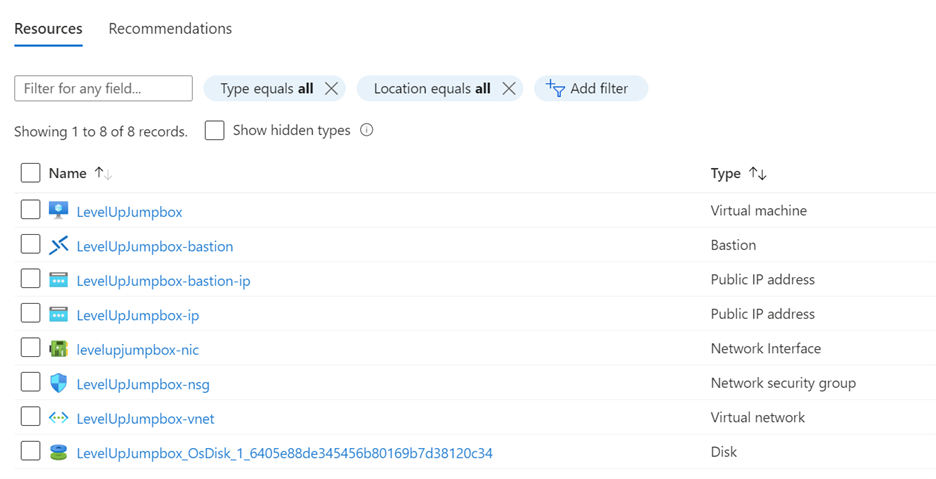
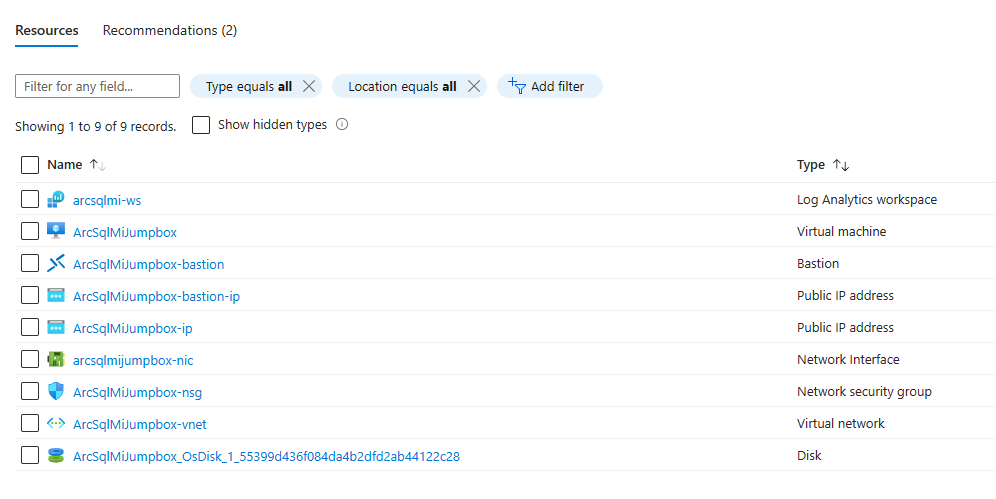
Include Azure Monitor workspace instructions

diff --git a/modules/direct.md b/modules/direct.md
@@ -129,9 +129,25 @@
 
     ![az-aks-custom-loc](media/az-aks-custom-loc.png)
 
-14. Deploy Data Controller using Azure Infrastructure (see **[reference](https://docs.microsoft.com/en-us/cli/azure/arcdata/dc?view=azure-cli-latest)** for more info)
+14. Get Log Analytics Workspace Id
 
-    You will be asked to enter a username and password for the account that manages the Data Controller (e.g. for monitoring purposes)
+    ```txt
+    az monitor log-analytics workspace show --resource-group <RG Name> --workspace-name <Log Analytics Workspace Name> --query customerId -o tsv
+    ```
+
+    ![az-get-log-analytics-workspace-id](media/az-get-log-analytics-workspace-id.png)
+
+15. Get Log Analytics Workspace Primary Key
+
+    ```txt
+    az monitor log-analytics workspace get-shared-keys --name <Log Analytics Workspace Name> --resource-group <RG Name> --query primarySharedKey -o tsv
+    ```
+
+    ![az-get-log-analytics-workspace-key](media/az-get-log-analytics-workspace-key.png)
+
+16. Deploy Data Controller using Azure Infrastructure (see **[reference](https://docs.microsoft.com/en-us/cli/azure/arcdata/dc?view=azure-cli-latest)** for more info)
+
+    You will be asked to enter the Log Analytics Workspace Id and Primary Key as well as a username and password for the account that manages the Data Controller (e.g. for monitoring purposes)
 
     ```txt
     az arcdata dc create --connectivity-mode direct --name <Data Controller Name e.g. arc-dc> --subscription <Your Subscription Id> --resource-group <RG Name> --location <Region> --storage-class managed-premium --profile-name azure-arc-aks-premium-storage --infrastructure azure --custom-location <Custom Location Name> --cluster-name <AKS Name> --auto-upload-logs true --auto-upload-logs true
@@ -139,7 +155,7 @@
 
     ![az-aks-dc-create-dir-mode](media/az-aks-dc-create-dir-mode.png)
 
-15. Verify Data Controller (DC) has been created successfully by ensuring new pods have been created for the DC.
+17. Verify Data Controller (DC) has been created successfully by ensuring new pods have been created for the DC.
 
     ```txt
     kubectl get pods -n <Namespace>
@@ -147,7 +163,7 @@
 
     ![az-aks-dc-get-pods](media/az-aks-dc-get-pods.png)
 
-16. Deploy a Development General Purpose Arc Enabled SQL MI with 1 replica, 2 vCores with a maximum of 4, 4GB of memory with a maximum of 8, managed premium storage for everything apart from backups where managed premium is not available (see **[reference](https://docs.microsoft.com/en-us/cli/azure/sql/mi-arc?view=azure-cli-latest)** for more info)
+18. Deploy a Development General Purpose Arc Enabled SQL MI with 1 replica, 2 vCores with a maximum of 4, 4GB of memory with a maximum of 8, managed premium storage for everything apart from backups where managed premium is not available (see **[reference](https://docs.microsoft.com/en-us/cli/azure/sql/mi-arc?view=azure-cli-latest)** for more info)
 
     You will be asked to enter a username and password for the SQL Admin account
 
@@ -157,7 +173,7 @@
 
     ![az-aks-dc-sqlmi-gp-dc](media/az-aks-dc-sqlmi-gp-dc.png)
 
-17. Deploy a Development Business Critical Arc Enabled SQL MI with 3 replicas, 2 vCores with a maximum of 4, 4GB of memory with a maximum of 8, managed premium storage for everything apart from backups
+19. Deploy a Development Business Critical Arc Enabled SQL MI with 3 replicas, 2 vCores with a maximum of 4, 4GB of memory with a maximum of 8, managed premium storage for everything apart from backups
 
     You will be asked to enter a username and password for the SQL Admin account
 
@@ -167,7 +183,7 @@
 
     ![az-aks-dc-sqlmi-bc-dc](media/az-aks-dc-sqlmi-bc-dc.png)
 
-18. Verify both Managed Instances were successfully created
+20. Verify both Managed Instances were successfully created
 
     ```txt
     kubectl get services -n <Namespace>
@@ -340,13 +356,7 @@ SQL Server agent is disabled by default.
     END;
     ```
 
-4. Enable the trace flag - There is a bug and the PG is aware of it
-
-    ```sql
-    DBCC traceon(1820,-1)
-    ```
-
-5. Verify the backup file is readable, and intact
+4. Verify the backup file is readable, and intact
 
     ```sql
     RESTORE FILELISTONLY 
@@ -355,7 +365,7 @@ SQL Server agent is disabled by default.
 
     If this fails with error "Operating system error 5(Access is denied.)" this could be an issue with SAS or it could be a network issue.  If your storage account can only be accessed via Firewall rule (selected networks) then you will need to create a service endpoint for the Virtual Network / Subnet in your Kubernetes managed resource group and add to the firewall rule for Virtual Networks
 
-6. Prepare and run the RESTORE DATABASE
+5. Prepare and run the RESTORE DATABASE
 
     ```sql
     RESTORE DATABASE <database name> FROM URL = 'https://<mystorageaccountname>.blob.core.windows.net/<mystorageaccountcontainername>/<file name>.bak'

diff --git a/modules/lab.md b/modules/lab.md
@@ -46,19 +46,13 @@ Deployed resources
     ```
     ![arc-data-extension-install](media/arc-data-extension-install.png)
 
-    To upgrade run 
-    ```text
-    az extension update --name arcdata
-    ```
-    ![arc-data-extension-update](media/arc-data-extension-update.png)
-
 3.  Kubectl
     
     For latest version go to https://kubernetes.io/docs/tasks/tools/install-kubectl-windows/
-    Example download using curl for version 1.24.0 
+    Example download using curl for version 1.28.4 
 
     ```text
-    $ProgressPreference = 'SilentlyContinue'; mkdir C:\Kube; Invoke-WebRequest -Uri https://dl.k8s.io/release/v1.24.0/bin/windows/amd64/kubectl.exe -OutFile "C:\kube\kubectl.exe"
+    $ProgressPreference = 'SilentlyContinue'; mkdir C:\Kube; Invoke-WebRequest -Uri https://dl.k8s.io/release/v1.28.4/bin/windows/amd64/kubectl.exe -OutFile "C:\kube\kubectl.exe"
     ```
     ![kubectl-install](media/kubectl-install.png)
 
@@ -66,7 +60,7 @@ Deployed resources
     Validate by running the following and comparing the two versions in SHA256 format
 
     ```text
-    $ProgressPreference = 'SilentlyContinue'; Invoke-WebRequest -Uri https://dl.k8s.io/v1.24.0/bin/windows/amd64/kubectl.exe.sha256 -OutFile "C:\kube\kubectl.exe.sha256"
+    $ProgressPreference = 'SilentlyContinue'; Invoke-WebRequest -Uri https://dl.k8s.io/v1.28.4/bin/windows/amd64/kubectl.exe.sha256 -OutFile "C:\kube\kubectl.exe.sha256"
     CertUtil -hashfile C:\kube\kubectl.exe SHA256
     type C:\kube\kubectl.exe.sha256
     ```

diff --git a/modules/indirect.md b/modules/indirect.md
@@ -248,13 +248,7 @@ SQL Server agent is disabled by default.
     END;
     ```
 
-4. Enable the trace flag - There is a bug and the PG is aware of it
-
-    ```sql
-    DBCC traceon(1820,-1)
-    ```
-
-5. Verify the backup file is readable, and intact
+4. Verify the backup file is readable, and intact
 
     ```sql
     RESTORE FILELISTONLY 
@@ -263,7 +257,7 @@ SQL Server agent is disabled by default.
 
     If this fails with error "Operating system error 5(Access is denied.)" this could be an issue with SAS or it could be a network issue.  If your storage account can only be accessed via Firewall rule (selected networks) then you will need to create a service endpoint for the Virtual Network / Subnet in your Kubernetes managed resource group and add to the firewall rule for Virtual Networks
 
-6. Prepare and run the RESTORE DATABASE
+5. Prepare and run the RESTORE DATABASE
 
     ```sql
     RESTORE DATABASE <database name> FROM URL = 'https://<mystorageaccountname>.blob.core.windows.net/<mystorageaccountcontainername>/<file name>.bak'

diff --git a/modules/aks-deployment.md b/modules/aks-deployment.md
@@ -37,10 +37,11 @@
 	az group create --name <RG Name> --location <Region>
     ```
 
-5.	Get the latest (IsPreview) and latest stable (Default) version for AKS
+5.	Get the latest stable (Default) version for AKS.  Find the default major version and then the highest minor version.
 
     ```text 
-    az aks get-versions --location <Region> --query orchestrators -o table
+    az aks get-versions --location uksouth -o table
+    az aks get-versions --location uksouth --query values -o table
     ```
     ![az-aks-versions](media/az-aks-versions.png)
 
@@ -59,5 +60,5 @@
     
     Deployed resources
     
-    ![az-aks-credentials](media/az-level-up-resources-2.png)
+    ![az-aks-credentials](media/lab-resources-2.png)
 [Continue >](../modules/indirect.md)
